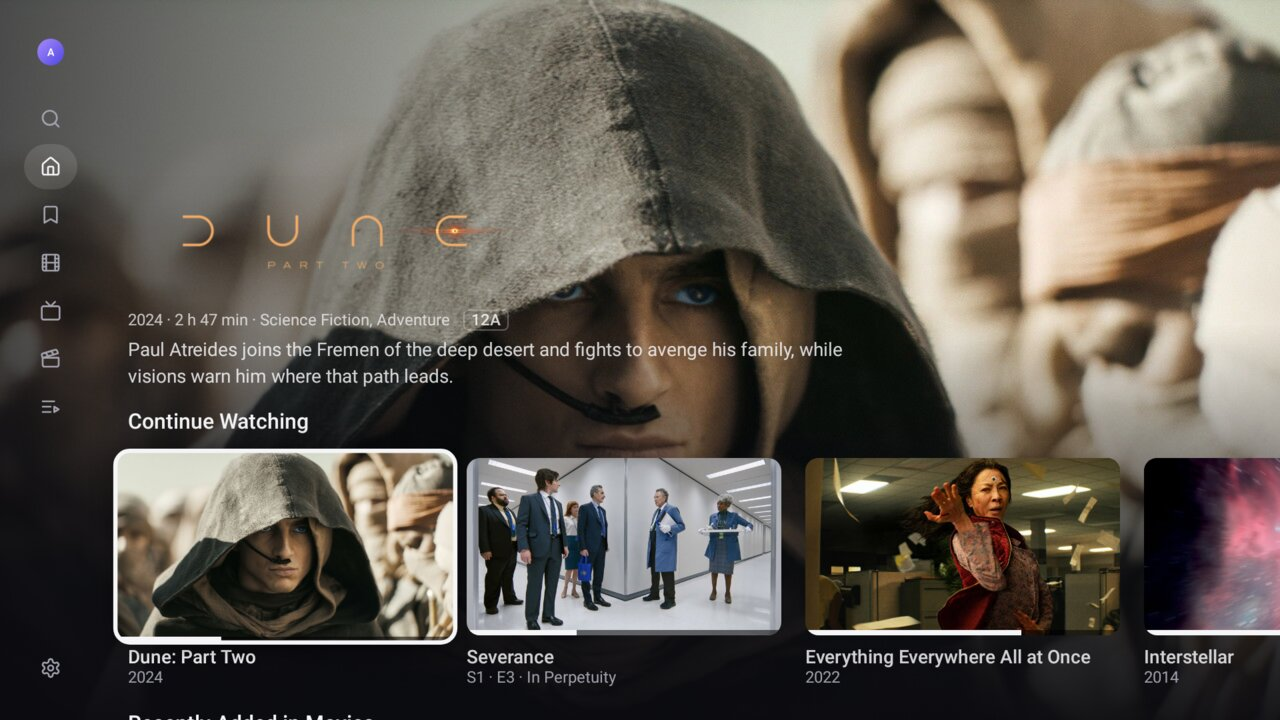
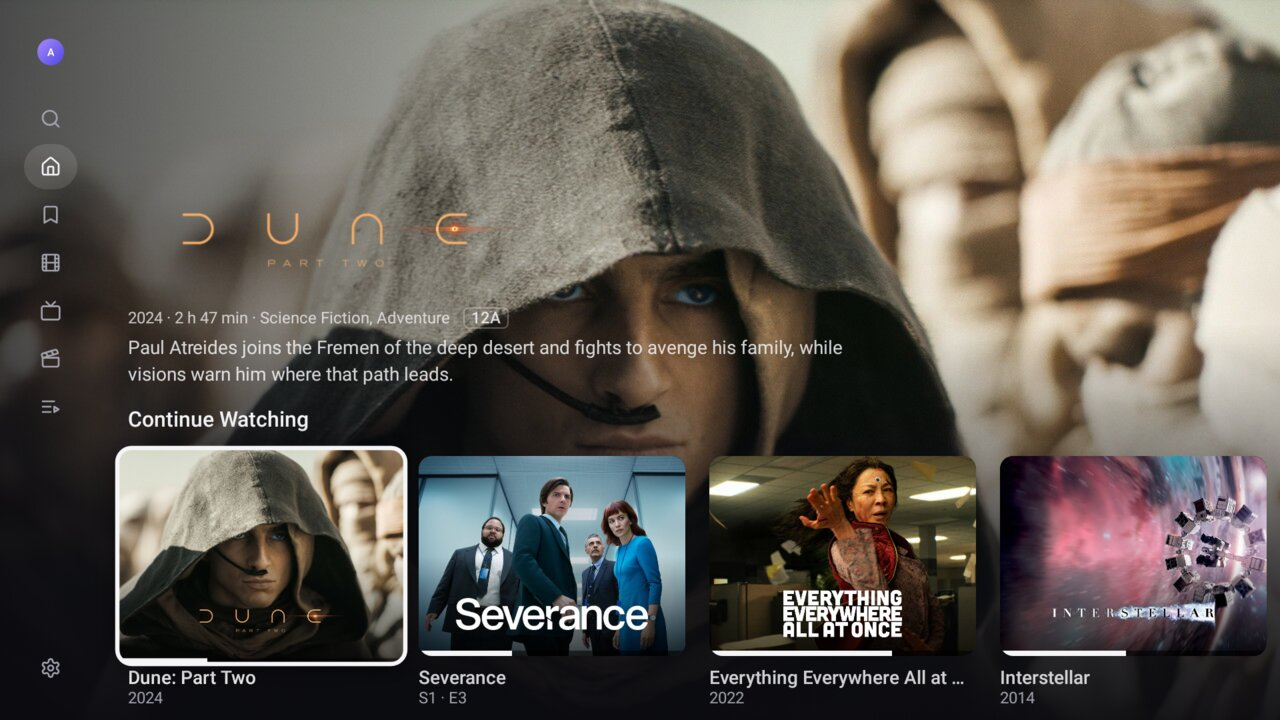
Title page: description above the buttons; Backdrops in Continue Watching shots
The title page's description, details and badges now sit under the logo
and above the Play and round buttons (owner, 16 November), capped at
600 dp wide. The screenshot fixtures show Home's Continue Watching row
with the Backdrops card style. README pictures re-rendered.

diff --git a/app/src/main/java/org/arcmediaserver/android/ui/details/DetailsScreen.kt b/app/src/main/java/org/arcmediaserver/android/ui/details/DetailsScreen.kt
@@ -297,142 +297,138 @@ private fun Header(
     onAbout: () -> Unit = {},
 ) {
     val item = details.item
-    // As the Apple TV app: the logo low on the artwork, then the Play button and round buttons on
-    // one line with the description and details beside them (owner, 31 October).
+    // The logo low on the artwork, then the description and details, then the Play button and
+    // round buttons on one line under them (owner, 16 November; beside them before).
     Column(Modifier.padding(start = PageStart, end = PageStart, bottom = 8.dp)) {
         org.arcmediaserver.android.ui.browse.TitleLogo(item, maxHeight = 100.dp, maxWidth = 380.dp, textStyle = MaterialTheme.typography.displayMedium)
         if (item.isEpisode) {
             Spacer(Modifier.height(8.dp))
             Text(listOfNotNull(episodeCode(item), item.title).joinToString(" · "), style = MaterialTheme.typography.titleMedium)
         }
-        Spacer(Modifier.height(18.dp))
+        Spacer(Modifier.height(10.dp))
+        // The description: three lines, and when that cuts it short, MORE under it and the
+        // whole thing focusable to open the full text, as the Apple TV app (owner, 1 November).
+        var cut by remember { mutableStateOf(false) }
+        androidx.tv.material3.Surface(
+            onClick = onAbout,
+            // Only focusable when there's more to read (a disabled Surface would dim the text).
+            modifier = Modifier.widthIn(max = 600.dp).offset(x = (-10).dp).focusProperties { canFocus = cut }.focusRequester(about),
+            shape = androidx.tv.material3.ClickableSurfaceDefaults.shape(RoundedCornerShape(14.dp)),
+            scale = androidx.tv.material3.ClickableSurfaceDefaults.scale(focusedScale = 1.02f),
+            colors = androidx.tv.material3.ClickableSurfaceDefaults.colors(
+                containerColor = Color.Transparent, contentColor = ArcColors.Foreground,
+                focusedContainerColor = Color.White.copy(alpha = 0.14f), focusedContentColor = ArcColors.Foreground,
+            ),
+        ) {
+          Column(Modifier.padding(horizontal = 10.dp, vertical = 8.dp)) {
+            org.arcmediaserver.android.ui.components.spoilerSafeOverview(item)?.let {
+                Text(
+                    it, style = MaterialTheme.typography.bodyMedium, color = ArcColors.Foreground.copy(alpha = 0.85f), maxLines = 3, overflow = TextOverflow.Ellipsis,
+                    onTextLayout = { layout -> cut = layout.hasVisualOverflow },
+                )
+            }
+            if (cut) Text(stringResource(R.string.details_more).uppercase(), style = MaterialTheme.typography.labelMedium.copy(fontWeight = androidx.compose.ui.text.font.FontWeight.Bold, letterSpacing = 1.sp), color = ArcColors.Foreground)
+            val unwatched = item.unwatchedCount ?: 0
+            val meta = listOfNotNull(
+                item.genres.firstOrNull(),
+                item.year?.toString()?.takeIf { !item.isEpisode },
+                item.runtimeMin?.takeIf { it > 0 && !item.isSeries }?.let { runtimeText(it) },
+                if (item.isSeries) pluralStringResource(R.plurals.episodes_left, unwatched, unwatched).takeIf { unwatched > 0 } else null,
+                item.rating?.takeIf { it > 0 }?.let { "★ %.1f".format(it) },
+            ).filter { it.isNotBlank() }
+            Spacer(Modifier.height(8.dp))
+            if (meta.isNotEmpty()) {
+                Text(meta.joinToString(" · "), style = MaterialTheme.typography.bodySmall, color = ArcColors.Foreground.copy(alpha = 0.7f), maxLines = 1)
+            }
+            // The age rating and the quality capsules, on a line of their own so none is squeezed.
+            Spacer(Modifier.height(8.dp))
+            org.arcmediaserver.android.ui.components.TitleBadges(item)
+          }
+        }
+        Spacer(Modifier.height(6.dp))
         var focusedLabel by remember { mutableStateOf<String?>(null) }
-        Row(verticalAlignment = Alignment.Top) {
-            Column {
-                Row(horizontalArrangement = Arrangement.spacedBy(10.dp), verticalAlignment = Alignment.CenterVertically) {
-                    val round = Color.White.copy(alpha = 0.16f)
-                    // A button's name shows below the row while it has the focus.
-                    fun labelled(label: String, base: Modifier = Modifier) = base.onFocusChanged {
-                        focusedLabel = if (it.isFocused) label else focusedLabel.takeIf { l -> l != label }
-                    }
-                    val target = if (item.isSeries) details.next else item
-                    if (target != null) {
-                        val resume = target.resumeMs
-                        val duration = target.durationMs
-                        val s = target.seasonNumber
-                        val e = target.episodeNumber
-                        // Outside the show's order (Arc's 0 and 0) an episode has no number to show.
-                        val numbered = target.isEpisode && target.orderNumbers != null
-                        val left = if (resume > 0 && duration > resume) runtimeText(((duration - resume) / 60_000).toInt().coerceAtLeast(1)) else null
-                        // What will play, as the Apple TV app's labels: part watched shows a bar and
-                        // what's left ("S5 E12 · 43 min" or "1 h 2 min").
-                        val label = when {
-                            resume > 0 && numbered -> stringResource(R.string.action_left_episode, s!!, e!!, left ?: clock(resume))
-                            resume > 0 -> left ?: stringResource(R.string.action_resume, clock(resume))
-                            item.isSeries && numbered && e == 1 -> stringResource(R.string.action_start_watching, s!!, e)
-                            numbered -> stringResource(R.string.action_play_se, s!!, e!!)
-                            else -> stringResource(R.string.action_play)
-                        }
-                        val progress = if (resume > 0 && duration > 0) (resume.toFloat() / duration).coerceIn(0f, 1f) else null
-                        PlayPill(label, Modifier.focusRequester(primary), progress) { onPlay(target, resume) }
-                        if (resume > 0) {
-                            val fromStart = stringResource(R.string.action_play_from_start)
-                            RoundIconButton(ArcIcons.RotateCcw, fromStart, { onPlay(target, 0) }, size = 44.dp, containerColor = round, modifier = labelled(fromStart))
-                        }
-                    }
-                    // Shuffle, after Play as on the web's show page.
-                    if (item.isSeries && actions.onShuffle != null && details.seasons.any { s -> s.episodes.any { it.available } }) {
-                        val shuffle = stringResource(R.string.action_shuffle)
-                        RoundIconButton(ArcIcons.Shuffle, shuffle, { actions.onShuffle.invoke() }, size = 44.dp, containerColor = round, modifier = labelled(shuffle))
-                    }
-                    if (item.isEpisode && item.parentId != null) {
-                        val show = stringResource(R.string.action_go_to_show)
-                        RoundIconButton(ArcIcons.Tv, show, { onOpen(item.parentId) }, size = 44.dp, containerColor = round, modifier = labelled(show))
-                    }
-                    val watchedLabel = stringResource(if (item.watched) R.string.action_mark_unwatched else R.string.action_mark_watched)
-                    RoundIconButton(
-                        ArcIcons.CircleCheck, watchedLabel, actions.onWatched,
-                        size = 44.dp, containerColor = round, iconTint = if (item.watched) ArcColors.Accent else null,
-                        modifier = labelled(watchedLabel),
-                    )
-                    if (item.canWatchlist) {
-                        val watchlistLabel = stringResource(if (item.onWatchlist) R.string.action_remove_watchlist else R.string.action_add_watchlist)
-                        RoundIconButton(
-                            if (item.onWatchlist) ArcIcons.BookmarkCheck else ArcIcons.Bookmark, watchlistLabel, actions.onWatchlist,
-                            size = 44.dp, containerColor = round, iconTint = if (item.onWatchlist) ArcColors.Accent else null,
-                            modifier = labelled(watchlistLabel),
-                        )
-                    }
-                    val moreLabel = stringResource(R.string.action_more)
-                    var moreBounds by remember { mutableStateOf<androidx.compose.ui.geometry.Rect?>(null) }
-                    RoundIconButton(
-                        ArcIcons.More, moreLabel, { onMore(moreBounds) }, size = 44.dp, containerColor = round,
-                        modifier = labelled(moreLabel, Modifier.focusRequester(more).onGloballyPositioned { moreBounds = it.boundsInRoot() }),
-                    )
+        Row(horizontalArrangement = Arrangement.spacedBy(10.dp), verticalAlignment = Alignment.CenterVertically) {
+            val round = Color.White.copy(alpha = 0.16f)
+            // A button's name shows below the row while it has the focus.
+            fun labelled(label: String, base: Modifier = Modifier) = base.onFocusChanged {
+                focusedLabel = if (it.isFocused) label else focusedLabel.takeIf { l -> l != label }
+            }
+            val target = if (item.isSeries) details.next else item
+            if (target != null) {
+                val resume = target.resumeMs
+                val duration = target.durationMs
+                val s = target.seasonNumber
+                val e = target.episodeNumber
+                // Outside the show's order (Arc's 0 and 0) an episode has no number to show.
+                val numbered = target.isEpisode && target.orderNumbers != null
+                val left = if (resume > 0 && duration > resume) runtimeText(((duration - resume) / 60_000).toInt().coerceAtLeast(1)) else null
+                // What will play, as the Apple TV app's labels: part watched shows a bar and
+                // what's left ("S5 E12 · 43 min" or "1 h 2 min").
+                val label = when {
+                    resume > 0 && numbered -> stringResource(R.string.action_left_episode, s!!, e!!, left ?: clock(resume))
+                    resume > 0 -> left ?: stringResource(R.string.action_resume, clock(resume))
+                    item.isSeries && numbered && e == 1 -> stringResource(R.string.action_start_watching, s!!, e)
+                    numbered -> stringResource(R.string.action_play_se, s!!, e!!)
+                    else -> stringResource(R.string.action_play)
                 }
-                // The focused round button's name, or what couldn't be saved.
-                Box(Modifier.height(28.dp).padding(top = 8.dp)) {
-                    // A season's problem shows beside its own button, in the seasons below.
-                    val problem = actions.problem?.takeIf { it != ActionProblem.Season }
-                    if (problem != null) {
-                        Text(
-                            stringResource(if (problem == ActionProblem.Watched) R.string.action_watched_failed else R.string.action_watchlist_failed),
-                            style = MaterialTheme.typography.labelLarge, color = ArcColors.Warning,
-                        )
-                        LaunchedEffect(problem) {
-                            kotlinx.coroutines.delay(5_000)
-                            actions.onProblemShown()
-                        }
-                    } else {
-                        focusedLabel?.let { Text(it, style = MaterialTheme.typography.labelLarge, color = ArcColors.Foreground.copy(alpha = 0.8f)) }
-                    }
+                val progress = if (resume > 0 && duration > 0) (resume.toFloat() / duration).coerceIn(0f, 1f) else null
+                PlayPill(label, Modifier.focusRequester(primary), progress) { onPlay(target, resume) }
+                if (resume > 0) {
+                    val fromStart = stringResource(R.string.action_play_from_start)
+                    RoundIconButton(ArcIcons.RotateCcw, fromStart, { onPlay(target, 0) }, size = 44.dp, containerColor = round, modifier = labelled(fromStart))
                 }
             }
-            Spacer(Modifier.width(24.dp))
-            // The description: three lines, and when that cuts it short, MORE under it and the
-            // whole thing focusable to open the full text, as the Apple TV app (owner, 1 November).
-            var cut by remember { mutableStateOf(false) }
-            androidx.tv.material3.Surface(
-                onClick = onAbout,
-                // Only focusable when there's more to read (a disabled Surface would dim the text).
-                modifier = Modifier.weight(1f).offset(x = (-10).dp, y = (-8).dp).focusProperties { canFocus = cut }.focusRequester(about),
-                shape = androidx.tv.material3.ClickableSurfaceDefaults.shape(RoundedCornerShape(14.dp)),
-                scale = androidx.tv.material3.ClickableSurfaceDefaults.scale(focusedScale = 1.02f),
-                colors = androidx.tv.material3.ClickableSurfaceDefaults.colors(
-                    containerColor = Color.Transparent, contentColor = ArcColors.Foreground,
-                    focusedContainerColor = Color.White.copy(alpha = 0.14f), focusedContentColor = ArcColors.Foreground,
-                ),
-            ) {
-              Column(Modifier.padding(horizontal = 10.dp, vertical = 8.dp)) {
-                org.arcmediaserver.android.ui.components.spoilerSafeOverview(item)?.let {
-                    Text(
-                        it, style = MaterialTheme.typography.bodyMedium, color = ArcColors.Foreground.copy(alpha = 0.85f), maxLines = 3, overflow = TextOverflow.Ellipsis,
-                        onTextLayout = { layout -> cut = layout.hasVisualOverflow },
-                    )
+            // Shuffle, after Play as on the web's show page.
+            if (item.isSeries && actions.onShuffle != null && details.seasons.any { s -> s.episodes.any { it.available } }) {
+                val shuffle = stringResource(R.string.action_shuffle)
+                RoundIconButton(ArcIcons.Shuffle, shuffle, { actions.onShuffle.invoke() }, size = 44.dp, containerColor = round, modifier = labelled(shuffle))
+            }
+            if (item.isEpisode && item.parentId != null) {
+                val show = stringResource(R.string.action_go_to_show)
+                RoundIconButton(ArcIcons.Tv, show, { onOpen(item.parentId) }, size = 44.dp, containerColor = round, modifier = labelled(show))
+            }
+            val watchedLabel = stringResource(if (item.watched) R.string.action_mark_unwatched else R.string.action_mark_watched)
+            RoundIconButton(
+                ArcIcons.CircleCheck, watchedLabel, actions.onWatched,
+                size = 44.dp, containerColor = round, iconTint = if (item.watched) ArcColors.Accent else null,
+                modifier = labelled(watchedLabel),
+            )
+            if (item.canWatchlist) {
+                val watchlistLabel = stringResource(if (item.onWatchlist) R.string.action_remove_watchlist else R.string.action_add_watchlist)
+                RoundIconButton(
+                    if (item.onWatchlist) ArcIcons.BookmarkCheck else ArcIcons.Bookmark, watchlistLabel, actions.onWatchlist,
+                    size = 44.dp, containerColor = round, iconTint = if (item.onWatchlist) ArcColors.Accent else null,
+                    modifier = labelled(watchlistLabel),
+                )
+            }
+            val moreLabel = stringResource(R.string.action_more)
+            var moreBounds by remember { mutableStateOf<androidx.compose.ui.geometry.Rect?>(null) }
+            RoundIconButton(
+                ArcIcons.More, moreLabel, { onMore(moreBounds) }, size = 44.dp, containerColor = round,
+                modifier = labelled(moreLabel, Modifier.focusRequester(more).onGloballyPositioned { moreBounds = it.boundsInRoot() }),
+            )
+        }
+        // The focused round button's name, or what couldn't be saved.
+        Box(Modifier.height(28.dp).padding(top = 8.dp)) {
+            // A season's problem shows beside its own button, in the seasons below.
+            val problem = actions.problem?.takeIf { it != ActionProblem.Season }
+            if (problem != null) {
+                Text(
+                    stringResource(if (problem == ActionProblem.Watched) R.string.action_watched_failed else R.string.action_watchlist_failed),
+                    style = MaterialTheme.typography.labelLarge, color = ArcColors.Warning,
+                )
+                LaunchedEffect(problem) {
+                    kotlinx.coroutines.delay(5_000)
+                    actions.onProblemShown()
                 }
-                if (cut) Text(stringResource(R.string.details_more).uppercase(), style = MaterialTheme.typography.labelMedium.copy(fontWeight = androidx.compose.ui.text.font.FontWeight.Bold, letterSpacing = 1.sp), color = ArcColors.Foreground)
-                val unwatched = item.unwatchedCount ?: 0
-                val meta = listOfNotNull(
-                    item.genres.firstOrNull(),
-                    item.year?.toString()?.takeIf { !item.isEpisode },
-                    item.runtimeMin?.takeIf { it > 0 && !item.isSeries }?.let { runtimeText(it) },
-                    if (item.isSeries) pluralStringResource(R.plurals.episodes_left, unwatched, unwatched).takeIf { unwatched > 0 } else null,
-                    item.rating?.takeIf { it > 0 }?.let { "★ %.1f".format(it) },
-                ).filter { it.isNotBlank() }
-                Spacer(Modifier.height(8.dp))
-                if (meta.isNotEmpty()) {
-                    Text(meta.joinToString(" · "), style = MaterialTheme.typography.bodySmall, color = ArcColors.Foreground.copy(alpha = 0.7f), maxLines = 1)
-                }
-                // The age rating and the quality capsules, on a line of their own so none is squeezed.
-                Spacer(Modifier.height(8.dp))
-                org.arcmediaserver.android.ui.components.TitleBadges(item)
-              }
+            } else {
+                focusedLabel?.let { Text(it, style = MaterialTheme.typography.labelLarge, color = ArcColors.Foreground.copy(alpha = 0.8f)) }
             }
         }
     }
 }
 
-/** A title's whole description, opened from MORE beside its buttons. */
+/** A title's whole description, opened from MORE above its buttons. */
 @Composable
 private fun AboutPanel(item: Item, onClose: () -> Unit) {
     val first = remember { FocusRequester() }

diff --git a/app/src/test/java/org/arcmediaserver/android/screenshots/Fixtures.kt b/app/src/test/java/org/arcmediaserver/android/screenshots/Fixtures.kt
@@ -128,7 +128,7 @@ object Fixtures {
 
     val homeRows: List<HomeRowState> = listOf(
         HomeRowState(
-            HomeRowSpec("continue", RowSource.Continue(true), CardStyle.Thumb),
+            HomeRowSpec("continue", RowSource.Continue(true), CardStyle.Backdrop),
             LoadState.Ready(listOf(cardFor(movies[0]), cardFor(seasons[0].episodes[2]), cardFor(movies[2].copy(userData = UserData(96 * 60_000))), cardFor(movies[3].copy(userData = UserData(80 * 60_000))))),
         ),
         HomeRowState(

diff --git a/docs/changes/2026-11-16-real-screenshot-titles.md b/docs/changes/2026-11-16-real-screenshot-titles.md
@@ -23,3 +23,12 @@ avoids redistributing them.
 
 **Logging.** None: test fixtures and a developer script only. The script prints which titles it
 fetched and never prints the key or request URLs.
+
+## Title page and Continue Watching (owner, 16 November)
+
+- **Title page:** the description, details and badges now sit under the logo and above the Play
+  button and round buttons, instead of beside them (the 31 October layout). The description is
+  capped at 600 dp wide so it reads as a block rather than one long line. MORE still opens the
+  whole text, and Up from the buttons reaches it when it's cut short.
+- **Screenshots:** Home's Continue Watching row uses the Backdrops card style (the title's
+  background art with its logo), which the app already offers as a row style.
